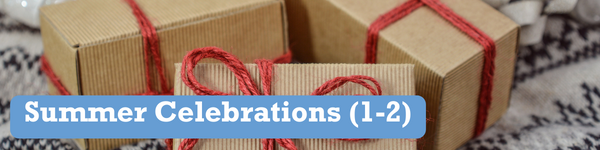
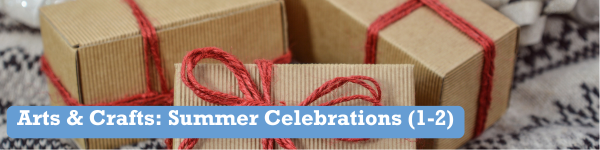
weeks 3 and 4

diff --git a/index.html b/index.html
@@ -309,6 +309,194 @@
     <p>Instructor: Vineyard App</p>
     <p>Have you ever dreamed of creating a video game? In this course, we’ll dive into game development. Students will learn the fundamentals of game design, starting with HTML programming and building to more advanced concepts. We will use AI technology for storytelling and image creation during the course, infusing unlimited options into game creation. We’ll also work on enhancing writing skills by coding trivia challenges and immersive choose-your-own-adventure games. Learners will have the opportunity to collaborate on a group game. Together, you'll practice the techniques learned throughout the course to craft a game that can be shared with friends and family.</p>
 </div>
+<div class="course" data-grades="nursery" data-strand="games-and-activities" data-session="week-3">
+    <h2>Dino Discovery</h2>
+    <div class="course-image"><img src="https://jschmidmb.github.io/branchesweb/Dino Discovery (Nursery).png" alt="Dino Discovery"></div>
+    <p>Grades: nursery</p>
+    <p>Strand: games-and-activities</p>
+    <p>Session: week-3</p>
+    <p>Instructor: Little Scholars</p>
+    <p>Take an adventure back to the Jurassic Era, where we will learn about dinosaurs who roamed the Earth millions of years ago. Uncover fascinating dinosaur facts and explore the world of dinosaurs in Dino Discovery. You will become a paleontologist faster than Ornithomimids running from T-Rex!</p>
+</div>
+
+<div class="course" data-grades="PreK, K" data-strand="games-and-activities" data-session="week-3">
+    <h2>Ready, Set, School!</h2>
+    <div class="course-image"><img src="https://jschmidmb.github.io/branchesweb/Ready, Set, School! (PreK - K).png" alt="Ready, Set, School!"></div>
+    <p>Grades: PreK, K</p>
+    <p>Strand: games-and-activities</p>
+    <p>Session: week-3</p>
+    <p>Instructor: Brab Cambell & Carly Orhan, Meadowbrook Faculty</p>
+    <p>Kindergarten bootcamp! Learn from Meadowbrook early education specialists about the expectations and joys surrounding the transition to Kindergarten! This program is non-academic but builds comfort, familiarity and confidence.</p>
+</div>
+
+<div class="course" data-grades="1,2" data-strand="creative-arts" data-session="week-3">
+    <h2>Summer Celebrations</h2>
+    <div class="course-image"><img src="https://jschmidmb.github.io/branchesweb/Summer Celebrations (1-2).png" alt="Summer Celebrations"></div>
+    <p>Grades: 1,2</p>
+    <p>Strand: creative-arts</p>
+    <p>Session: week-3</p>
+    <p>Instructor: Meadowbrook Faculty</p>
+    <p>Come have fun with Meadowbrook teachers in a holiday-based arts & crafts week! Children will participate in various individual and group projects based on various holidays throughout the year.</p>
+</div>
+
+<div class="course" data-grades="1,2" data-strand="creative-arts" data-session="week-3">
+    <h2>Little Artists</h2>
+    <div class="course-image"><img src="https://jschmidmb.github.io/branchesweb/Little Artists (1&2).png" alt="Little Artists"></div>
+    <p>Grades: 1,2</p>
+    <p>Strand: creative-arts</p>
+    <p>Session: week-3</p>
+    <p>Instructor: Spark Business Academy</p>
+    <p></p>
+</div>
+
+<div class="course" data-grades="1,2" data-strand="steam" data-session="week-3">
+    <h2>Minecraft Adventures</h2>
+    <div class="course-image"><img src="https://jschmidmb.github.io/branchesweb/Minecraft Adventures (1-2).png" alt="Minecraft Adventures"></div>
+    <p>Grades: 1,2</p>
+    <p>Strand: steam</p>
+    <p>Session: week-3</p>
+    <p>Instructor: iCode Wellesley</p>
+    <p>Calling all Artists, Engineers, Creators, Gamers and Coders! In this camp, the students get introduced to Minecraft (an extremely popular creative world-building platform) by Microsoft. This is a platform where engineers and artists can show their creativity. Students explore art and architecture and plan to create basic and complex designs. Students will learn to explore the world by walking, swimming and flying! They will build the world, starting with basic structures, all the way to the most complex designs. They will also learn about materials starting with simple to compound metals. Students will build different types of worlds and work as a team in a shared world.</p>
+</div>
+
+<div class="course" data-grades="3,4,5" data-strand="sports" data-session="week-3">
+    <h2>Multisports</h2>
+    <div class="course-image"><img src="https://jschmidmb.github.io/branchesweb/Viking Multisports (K-6).png" alt="Multisports"></div>
+    <p>Grades: 3,4,5</p>
+    <p>Strand: sports</p>
+    <p>Session: week-3</p>
+    <p>Instructor: Viking Multisports Camp</p>
+    <p>All of Viking Multi-Sport Summer Camps include a fun variety of sports including soccer, basketball, baseball, flag football, dodgeball, kickball, capture the flag, floor hockey, team handball, watermelon, gaga ball, reindeer tails, and many other sports, gym games, and camp activities.</p>
+</div>
+
+<div class="course" data-grades="3,4,5" data-strand="creative-arts" data-session="week-3">
+    <h2>Comic Journalism Workshop</h2>
+    <div class="course-image"><img src="https://jschmidmb.github.io/branchesweb/Comic Journalism Workshop (3-5).png" alt="Comic Journalism Workshop"></div>
+    <p>Grades: 3,4,5</p>
+    <p>Strand: creative-arts</p>
+    <p>Session: week-3</p>
+    <p>Instructor: Jonathan Todd</p>
+    <p>Create comics that can raise awareness about important issues or interesting people! In Comics Journalism Workshop, Scholastic graphic novelist and former journalist Jonathan Todd (author/illustrator of TIMID) will coach tweens in the interviewing, reporting and drawing skills needed to create a comics journalism piece: news in the form of comics! You’ll get a chance to choose a modern issue to research and draw about, including interviewing people at camp or through Zoom, drawing caricatures and learning techniques to create comics from real life. At the end of the week, you’ll have the opportunity to scan your pieces and share them online or through zines you’ll create!</p>
+</div>
+
+<div class="course" data-grades="3,4,5" data-strand="games-and-activities" data-session="week-3">
+    <h2>Survivor: Kidz Edition</h2>
+    <div class="course-image"><img src="https://jschmidmb.github.io/branchesweb/Survivor_Kidz Edition (3-5).png" alt="Survivor: Kidz Edition"></div>
+    <p>Grades: 3,4,5</p>
+    <p>Strand: games-and-activities</p>
+    <p>Session: week-3</p>
+    <p>Instructor: CinemaKidz</p>
+    <p>Explorers immerse in the natural world and test their survival, acting, and team skills. Learn all about making shelters, building fires, map making, orienteering, and rugged living. Explorers will test their wilderness skills, dream up fun personalities and personas for the show, and participate in awesome team-building indoor and outdoor games and challenges.</p>
+</div>
+
+<div class="course" data-grades="3,4,5" data-strand="academic-fun" data-session="week-3">
+    <h2>Elementary School Math Contest Prep</h2>
+    <div class="course-image"><img src="https://jschmidmb.github.io/branchesweb/Elem. School Math Contest Prep (3-5).png" alt="Elementary School Math Contest Prep"></div>
+    <p>Grades: 3,4,5</p>
+    <p>Strand: academic-fun</p>
+    <p>Session: week-3</p>
+    <p>Instructor: Kevin Christensen, Meadowbrook Faculty</p>
+    <p>This class will help prepare your child for success with elementary math contests. We will solve a variety of problems from multiple contests, including the Noetic and Math Olympiad. The goal will be to improve your child's ability to logically approach the problems, as well as increase their exposure to the contest math format. Practice contests will be given and explained in detail. Bring your thinking brains!</p>
+</div>
+<div class="course" data-grades="6,7,8" data-strand="games-and-activities" data-session="week-3"></div>
+    <h2>Dungeons & Dragons</h2>
+    <div class="course-image"><img src="https://jschmidmb.github.io/branchesweb/Dungeons & Dragons (6-8).png" alt="Dungeons & Dragons"></div>
+    <p>Grades: 6,7,8</p>
+    <p>Strand: games-and-activities</p>
+    <p>Session: week-3</p>
+    <p>Instructor: Vineyard App Camp</p>
+    <p>Have you ever wanted to play the nationally-known game Dungeons and Dragons? Stretch your imagination telling stories with your friends, and build useful creative skills? What about play the game they do in Stranger Things? Well this is your chance! In this class, we'll be exploring collaborative storytelling through Dungeons and Dragons. Along the way, we'll develop social and emotional skills that will serve us well outside of the RPG.</p>
+</div>
+<div class="course" data-grades="nursery" data-strand="games-and-activities" data-session="week-4">
+    <h2>Infinity & Beyond: Space Camp</h2>
+    <div class="course-image"><img src="https://jschmidmb.github.io/branchesweb/Infinity & Beyond_Space Camp (Nursery).png" alt="Infinity & Beyond: Space Camp"></div>
+    <p>Grades: nursery</p>
+    <p>Strand: games-and-activities</p>
+    <p>Session: week-4</p>
+    <p>Instructor: Little Scholars</p>
+    <p>5, 4, 3, 2, 1, let's blast off to space for a super fun journey to our awesome solar system. We'll meet colorful comets, gigantic planets, twinkling shooting stars, speedy rockets, and so much more! Let's zoom through the galaxy and discover the wonders of space travel together!</p>
+</div>
+
+<div class="course" data-grades="Pre-k, K" data-strand="creative-arts" data-session="week-4">
+    <h2>Rock n' Roll Camp</h2>
+    <div class="course-image"><img src="https://jschmidmb.github.io/branchesweb/Rock n'Roll Camp (PK&K).png" alt="Rock n' Roll Camp"></div>
+    <p>Grades: Pre-k, K</p>
+    <p>Strand: creative-arts</p>
+    <p>Session: week-4</p>
+    <p>Instructor: Little Scholars</p>
+    <p>We are looking for the next rock-n-roll star! We will jam out with handmade instruments, learn hip songs, and rock the day away. Your rocking scholar will show off their social, gross, and fine motor skills at our final performance. Show us your rock star side!</p>
+</div>
+
+<div class="course" data-grades="1,2" data-strand="creative-arts" data-session="week-4">
+    <h2>Summer Celebrations</h2>
+    <div class="course-image"><img src="https://jschmidmb.github.io/branchesweb/Summer Celebrations (1-2).png" alt="Summer Celebrations"></div>
+    <p>Grades: 1,2</p>
+    <p>Strand: creative-arts</p>
+    <p>Session: week-4</p>
+    <p>Instructor: Meadowbrook Faculty</p>
+    <p>Come have fun with Meadowbrook teachers in a holiday-based arts & crafts week! Children will participate in various individual and group projects based on various holidays throughout the year.</p>
+</div>
+
+<div class="course" data-grades="1,2" data-strand="creative-arts" data-session="week-4">
+    <h2>Survivor: Kidz Edition</h2>
+    <div class="course-image"><img src="https://jschmidmb.github.io/branchesweb/Survivor_Kidz Edition (1-2).png" alt="Survivor: Kidz Edition"></div>
+    <p>Grades: 1,2</p>
+    <p>Strand: creative-arts</p>
+    <p>Session: week-4</p>
+    <p>Instructor: CinemaKidz</p>
+    <p>Explorers immerse in the natural world and test their survival, acting, and team skills. Learn all about making shelters, building fires, map making, orienteering, and rugged living. Explorers will test their wilderness skills, dream up fun personalities and personas for the show, and participate in awesome team-building indoor and outdoor games and challenges.</p>
+</div>
+
+<div class="course" data-grades="3,4,5" data-strand="steam" data-session="week-4">
+    <h2>Junior Inventors: STEM Challenge</h2>
+    <div class="course-image"><img src="https://jschmidmb.github.io/branchesweb/Junior Inventors_STEM Challenge (3-5).png" alt="Junior Inventors: STEM Challenge"></div>
+    <p>Grades: 3,4,5</p>
+    <p>Strand: steam</p>
+    <p>Session: week-4</p>
+    <p>Instructor: Spark Business Academy</p>
+    <p>In this inventive program, Explorers design and create solutions to problems, teaming up to identify the need for a new invention, and producing real structures and solutions.</p>
+</div>
+
+<div class="course" data-grades="k,1,2" data-strand="sports" data-session="week-4">
+    <h2>Multisports</h2>
+    <div class="course-image"><img src="https://jschmidmb.github.io/branchesweb/Viking Multisports (K-2).png" alt="Multisports"></div>
+    <p>Grades: k,1,2</p>
+    <p>Strand: sports</p>
+    <p>Session: week-4</p>
+    <p>Instructor: Viking Multisports Camp</p>
+    <p>All of Viking Multi-Sport Summer Camps include a fun variety of sports including soccer, basketball, baseball, flag football, dodgeball, kickball, capture the flag, floor hockey, team handball, watermelon, gaga ball, reindeer tails, and many other sports, gym games, and camp activities.</p>
+</div>
+
+<div class="course" data-grades="3,4,5" data-strand="steam" data-session="week-4">
+    <h2>Coding with Roblox</h2>
+    <div class="course-image"><img src="https://jschmidmb.github.io/branchesweb/Coding with Roblox (3-5).png" alt="Coding with Roblox"></div>
+    <p>Grades: 3,4,5</p>
+    <p>Strand: steam</p>
+    <p>Session: week-4</p>
+    <p>Instructor: iCode Wellesley</p>
+    <p>Roblox is one of the most popular online game platforms to play and create one’s own games. Roblox helps students socialize and expand their analytical and problem-solving skills while having fun with their friends. The games are easy to interact with, even for young children. In this course students will be introduced to concepts around game construction, with an introduction to Roblox Studio, where they can generate a random world or build on pre-fabricated themes, templates and storylines. In this course, students will also learn about Digital Citizenship, Internet Security, and other critical concepts and develop habits and practices for safe online interactions with others.</p>
+</div>
+
+<div class="course" data-grades="3,4,5" data-strand="creative-arts" data-session="week-4">
+    <h2>Cooking Around the World</h2>
+    <div class="course-image"><img src="https://jschmidmb.github.io/branchesweb/Cooking Around the World (3-5).png" alt="Cooking Around the World"></div>
+    <p>Grades: 3,4,5</p>
+    <p>Strand: creative-arts</p>
+    <p>Session: week-4</p>
+    <p>Instructor: Vineyard App Camp</p>
+    <p>Does your child have a passion for cooking? In this cooking class, students will discover how to prepare delicious international and American dishes safely and skillfully. We'll explore diverse recipes from Africa, Asia, Europe, and North and South America, all kid-friendly and perfect for after-school cooking. During our sessions, your child will play kids' games from other countries, learn food terms from around the world, and receive simple recipes they can use at home. This course is tailored for younger students and focuses on microwave cooking. Recipes include Italian Lasagna, Ghanaian Fufu Dumplings, Japanese Rice Balls (Nigiri), Mexican Quesadilla and Salsa, American Mug Cake, Chinese Chaofan, and French Fondue.</p>
+</div>
+
+<div class="course" data-grades="3,4,5" data-strand="steam" data-session="week-4">
+    <h2>Math - Bar Modeling</h2>
+    <div class="course-image"><img src="https://jschmidmb.github.io/branchesweb/Math - Bar Modeling 101 (3-5).png" alt="Math - Bar Modeling"></div>
+    <p>Grades: 3,4,5</p>
+    <p>Strand: steam</p>
+    <p>Session: week-4</p>
+    <p>Instructor: Meadowbrook Faculty</p>
+    <p>Students will explore the powerful math problem-solving tool, bar modeling from the beginning. Bar modeling is used extensively in the Singapore Math program and allows students in grades 3 - 5 to solve problems often found in Algebra texts not by assigning variables, but by drawing the math relationships using bars. Your child will be amazed at their ability to solve complex, multi-step problems just by drawing!</p>
+</div>
+
 
 
                         <!-- Add more course entries with data attributes for grades, strand, and session -->
